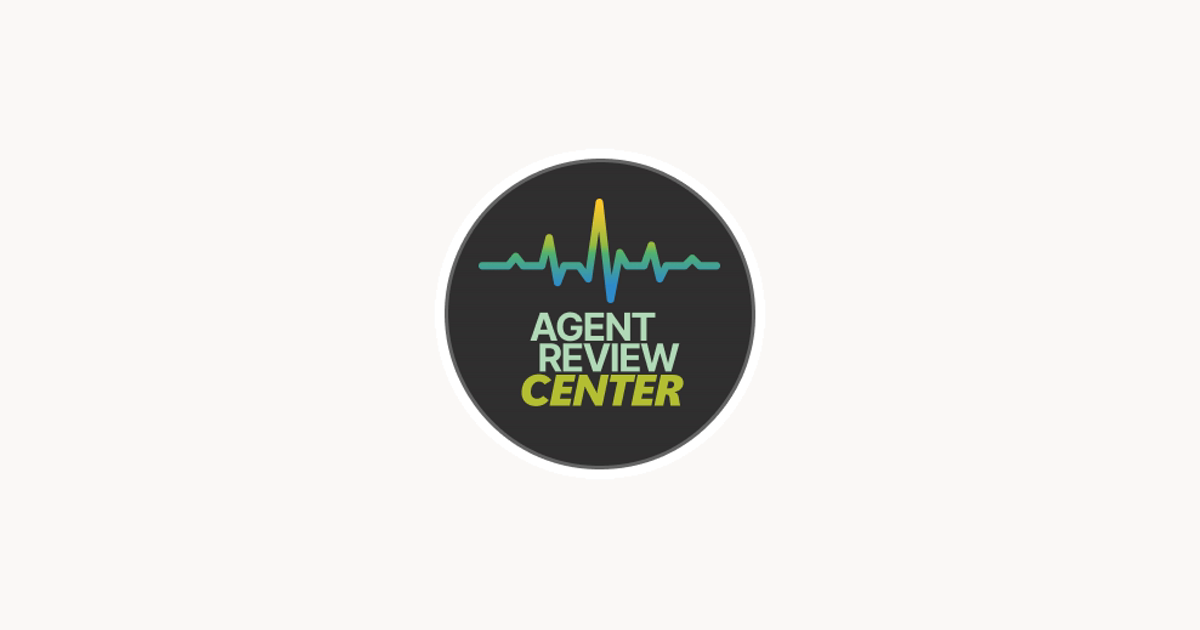
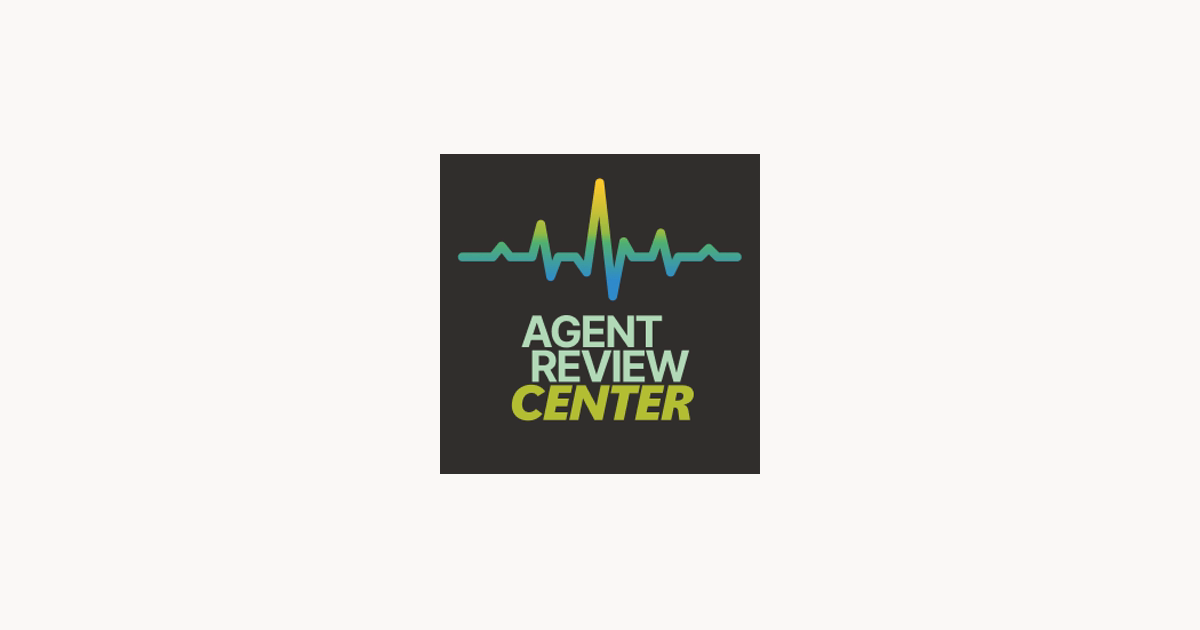
Swap the circular badge for the square mark
Drops the ringed circular logo for the square tile, so the pale outline
is gone.

The supplied PNG carried ragged alpha in its corners -- 255, 128, 128 and
64 across the four of them -- on what is meant to be a solid tile. Left
alone the page would have shown through unevenly at three corners.
Flattened to fully opaque and checked against a magenta backdrop.

Header treatment follows the shape: an 8px radius instead of the 50% that
clipped the old badge to a circle. At 36px that is roughly a 22% corner,
which reads as an app icon rather than a cropped photo.

Regenerated og-card.png from the new mark and updated the ffmpeg command
in the asset README to match.

Verified both themes at 360px to 1440px: mark loads at 36px with an 8px
radius, no contrast failures, no broken images, no overflow, and the home
link still resolves to "Agent Review Program" once the wordmark is
visually hidden on narrow screens.

Changed region(s): [[0.3392, 0.2413, 0.6475, 0.754]]

diff --git a/docs/styles.css b/docs/styles.css
@@ -188,7 +188,7 @@ img { max-width: 100%; }
 .brand__mark {
   display: block; flex-shrink: 0;
   width: 36px; height: 36px;
-  border-radius: 50%;
+  border-radius: var(--radius-lg);
 }
 
 .site-header__cta { flex-shrink: 0; margin-left: auto; }

diff --git a/docs/assets/README.md b/docs/assets/README.md
@@ -8,12 +8,12 @@ Served directly by GitHub Pages from `https://microsoft.github.io/AI-Solution-Re
 
 | File | Used for | Notes |
 |---|---|---|
-| `logo.png` | Header mark, favicon, Apple touch icon | 280 × 280 circular badge. Everything outside the circle was masked to real transparency — the supplied file had a white box baked into the corners at partial alpha, which showed as a white square on any non-white background. |
+| `logo.png` | Header mark, favicon, Apple touch icon | 280 × 280 square tile. Flattened to fully opaque — the supplied file carried ragged alpha in the corners (255, 128, 128, 64), which would have let the page show through on what is meant to be a solid tile. Rendered at 36px with an 8px radius. |
 | `og-card.png` | `og:image` link previews | 1200 × 630, logo centred on the site surface colour. Regenerate with the ffmpeg command below if the logo changes. |
 
 ```bash
 ffmpeg -y -f lavfi -i "color=c=0xfaf9f8:s=1200x630" -i logo.png \
-  -filter_complex "[1:v]scale=340:340[lg];[0:v][lg]overlay=(W-w)/2:(H-h)/2" \
+  -filter_complex "[1:v]scale=320:320,format=rgba[lg];[0:v][lg]overlay=(W-w)/2:(H-h)/2" \
   -frames:v 1 og-card.png
 ```
 
